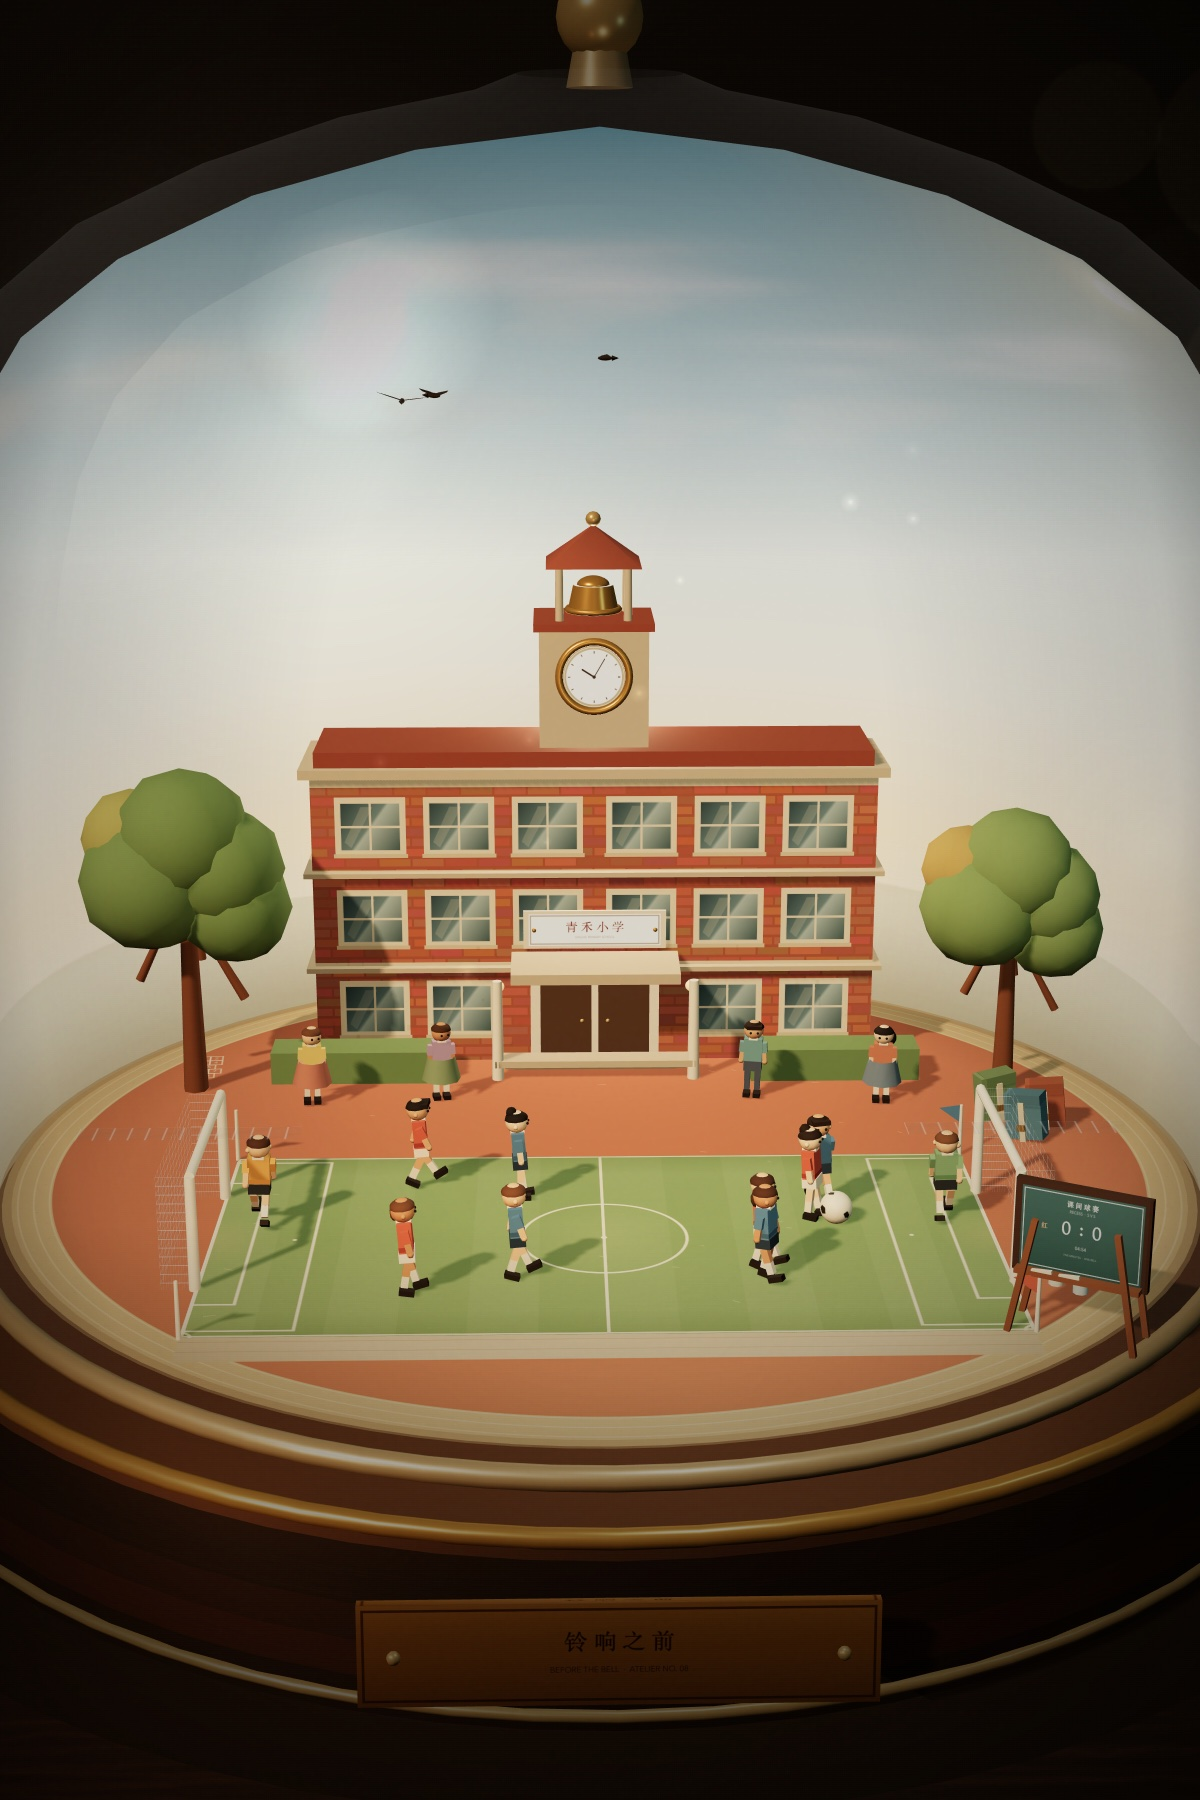
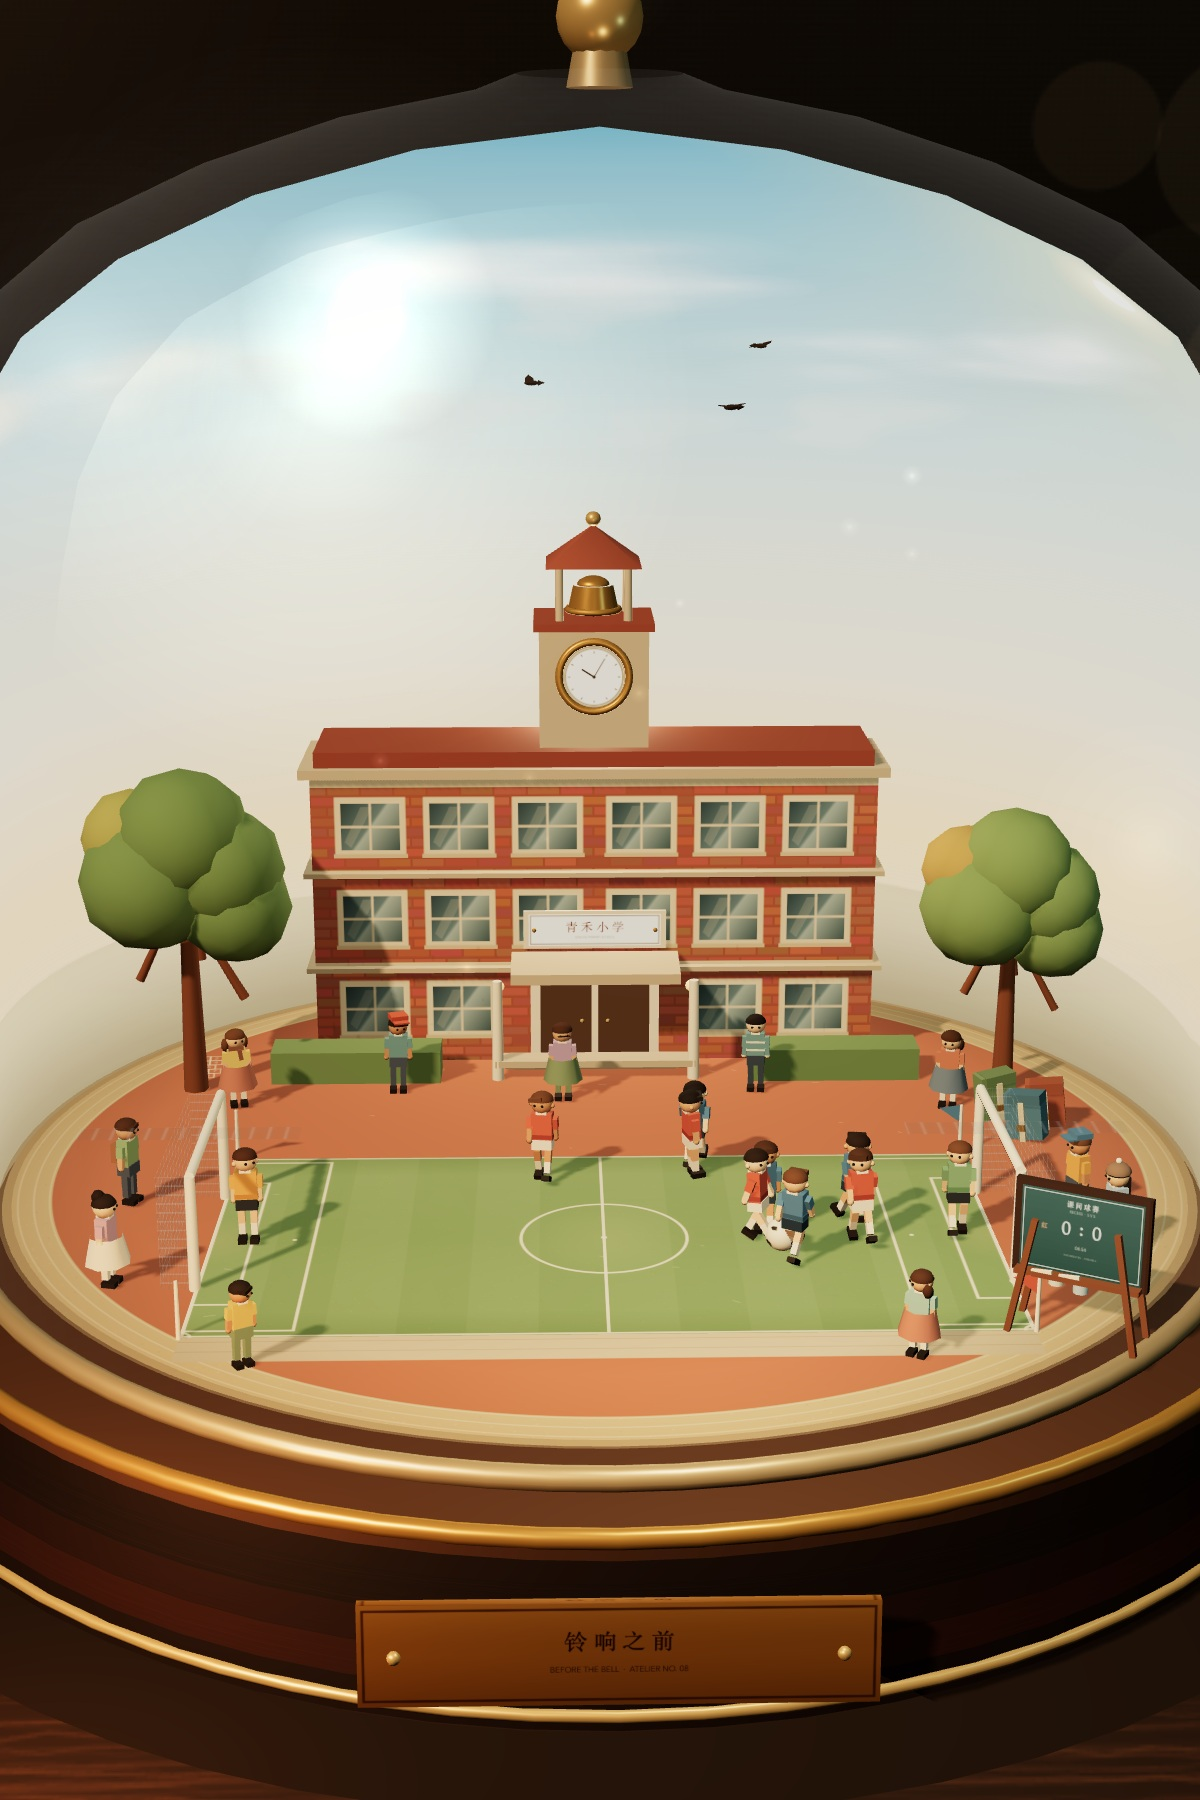
feat: 扩充课间球场的场边同学并修正发型
观众从 4 人增至 11 人，分散在教学楼前、两侧球门后和场地前角，新增帽子、围巾、条纹衫、书包、长裤、丸子头、双马尾等服饰发型，点击台词、进球欢呼、打铃退场和复位都保留。踢球的十名球员统一为男生短发；发帽原来低于头顶，补高后不再露出发顶；黑板点击代理改成贴合板面的盒子，避免挡住旁边观众。海报同步更新。

diff --git a/recess-football/index.html b/recess-football/index.html
@@ -1941,30 +1941,23 @@ function makeKid(team, index, role, baseX, baseZ){
   headPivot.add(earR);
 
   const cap = new THREE.Mesh(HAIR_CAP_GEO, hair);
-  cap.scale.set(.032, .021, .032);
-  cap.position.y = .018;
+  cap.scale.set(.033, .026, .033);
+  cap.position.y = .017;
   cap.castShadow = true;
   headPivot.add(cap);
-  const style = index % 4;
+  // the ten players are all boys: short crops, fringes and side sweeps only
+  const style = index % 3;
   if (style === 1){
     const fringe = new THREE.Mesh(BOX, hair);
     fringe.scale.set(.048, .012, .028);
     fringe.position.set(0, .025, .019);
     headPivot.add(fringe);
   } else if (style === 2){
-    const tail = new THREE.Mesh(SMALL_GEO, hair);
-    tail.scale.set(.014, .021, .016);
-    tail.position.set(.025, -.006, -.019);
-    headPivot.add(tail);
-    const tie = new THREE.Mesh(SMALL_GEO, M.red);
-    tie.scale.setScalar(.007);
-    tie.position.set(.025, .01, -.021);
-    headPivot.add(tie);
-  } else if (style === 3){
-    const bun = new THREE.Mesh(SMALL_GEO, hair);
-    bun.scale.setScalar(.016);
-    bun.position.set(0, .036, -.012);
-    headPivot.add(bun);
+    const sweep = new THREE.Mesh(BOX, hair);
+    sweep.scale.set(.038, .010, .026);
+    sweep.position.set(-.009, .024, .021);
+    sweep.rotation.z = .14;
+    headPivot.add(sweep);
   }
 
   for (const ex of [-.011, .011]){
@@ -2032,19 +2025,21 @@ function makeSpectator(def){
   const hair = kidMat(HAIR_TONES[def.hair % HAIR_TONES.length]);
   const top = kidMat(def.top);
   const lower = kidMat(def.lower);
-  const shoe = M.dark;
+  const shoe = def.shoe != null ? kidMat(def.shoe) : M.dark;
+  const thighMat = def.girl && !def.long ? skin : lower;
+  const shinMat = def.long ? lower : def.girl ? M.cream : lower;
 
   const legs = [];
   for (const side of [-1, 1]){
     const pivot = new THREE.Group();
     pivot.position.set(side * .016, .09, 0);
     body.add(pivot);
-    const thigh = new THREE.Mesh(BOX, def.girl ? skin : lower);
+    const thigh = new THREE.Mesh(BOX, thighMat);
     thigh.scale.set(.018, .034, .019);
     thigh.position.y = -.017;
     thigh.castShadow = true;
     pivot.add(thigh);
-    const lowerLeg = new THREE.Mesh(BOX, def.girl ? M.cream : lower);
+    const lowerLeg = new THREE.Mesh(BOX, shinMat);
     lowerLeg.scale.set(.017, .032, .018);
     lowerLeg.position.y = -.049;
     lowerLeg.castShadow = true;
@@ -2076,22 +2071,62 @@ function makeSpectator(def){
   torso.castShadow = true;
   torso.receiveShadow = true;
   body.add(torso);
-  const collar = new THREE.Mesh(BOX, M.cream);
+  if (def.stripes != null){
+    for (const y of [.142, .168]){
+      const stripe = new THREE.Mesh(BOX, kidMat(def.stripes));
+      stripe.scale.set(.0605, .007, .0363);
+      stripe.position.y = y;
+      body.add(stripe);
+    }
+  }
+  if (def.jacket != null){
+    const jacketMat = kidMat(def.jacket);
+    const hem = new THREE.Mesh(BOX, jacketMat);
+    hem.scale.set(.061, .013, .037);
+    hem.position.y = .124;
+    body.add(hem);
+    const zip = new THREE.Mesh(BOX, kidMat(def.zip || 0xeadfc8));
+    zip.scale.set(.006, .068, .005);
+    zip.position.set(0, .16, .0185);
+    body.add(zip);
+  }
+  const collar = new THREE.Mesh(BOX, def.collar != null ? kidMat(def.collar) : M.cream);
   collar.scale.set(.028, .009, .038);
   collar.position.y = .198;
   body.add(collar);
+  if (def.scarf != null){
+    const scarfMat = kidMat(def.scarf);
+    const wrap = new THREE.Mesh(BOX, scarfMat);
+    wrap.scale.set(.047, .013, .041);
+    wrap.position.y = .198;
+    body.add(wrap);
+    const end = new THREE.Mesh(BOX, scarfMat);
+    end.scale.set(.013, .034, .012);
+    end.position.set(.012, .178, .021);
+    end.rotation.z = .16;
+    body.add(end);
+  }
+  if (def.backpack != null){
+    const pack = new THREE.Mesh(BOX, kidMat(def.backpack));
+    pack.scale.set(.044, .055, .019);
+    pack.position.set(0, .152, -.032);
+    pack.castShadow = true;
+    body.add(pack);
+  }
 
+  const sleeveMat = def.jacket != null ? kidMat(def.jacket) : top;
+  const forearmMat = def.jacket != null || def.longSleeve ? sleeveMat : skin;
   const arms = [];
   for (const side of [-1, 1]){
     const pivot = new THREE.Group();
     pivot.position.set(side * .033, .182, 0);
     body.add(pivot);
-    const sleeve = new THREE.Mesh(BOX, top);
+    const sleeve = new THREE.Mesh(BOX, sleeveMat);
     sleeve.scale.set(.019, .032, .021);
     sleeve.position.y = -.016;
     sleeve.castShadow = true;
     pivot.add(sleeve);
-    const forearm = new THREE.Mesh(BOX, skin);
+    const forearm = new THREE.Mesh(BOX, forearmMat);
     forearm.scale.set(.014, .034, .016);
     forearm.position.y = -.044;
     forearm.castShadow = true;
@@ -2118,24 +2153,85 @@ function makeSpectator(def){
   head.castShadow = true;
   headPivot.add(head);
   const cap = new THREE.Mesh(HAIR_CAP_GEO, hair);
-  cap.scale.set(.032, .021, .032);
-  cap.position.y = .018;
+  cap.scale.set(.033, .026, .033);
+  cap.position.y = .017;
   cap.castShadow = true;
   headPivot.add(cap);
   if (def.girl){
-    const tail = new THREE.Mesh(SMALL_GEO, hair);
-    tail.scale.set(.014, .022, .016);
-    tail.position.set(.025, -.005, -.019);
-    headPivot.add(tail);
-    const tie = new THREE.Mesh(SMALL_GEO, M.red);
-    tie.scale.setScalar(.007);
-    tie.position.set(.025, .011, -.021);
-    headPivot.add(tie);
+    const hs = def.hairStyle || 1;
+    if (hs === 2){
+      const back = new THREE.Mesh(BOX, hair);
+      back.scale.set(.034, .062, .018);
+      back.position.set(0, -.022, -.021);
+      back.castShadow = true;
+      headPivot.add(back);
+    } else if (hs === 3){
+      for (const side of [-1, 1]){
+        const tail = new THREE.Mesh(SMALL_GEO, hair);
+        tail.scale.set(.014, .022, .016);
+        tail.position.set(side * .031, -.006, -.008);
+        headPivot.add(tail);
+        const tie = new THREE.Mesh(SMALL_GEO, def.tie != null ? kidMat(def.tie) : M.red);
+        tie.scale.setScalar(.007);
+        tie.position.set(side * .031, .009, -.01);
+        headPivot.add(tie);
+      }
+    } else if (hs === 4){
+      const bun = new THREE.Mesh(SMALL_GEO, hair);
+      bun.scale.setScalar(.018);
+      bun.position.set(0, .038, -.014);
+      headPivot.add(bun);
+    } else {
+      const tail = new THREE.Mesh(SMALL_GEO, hair);
+      tail.scale.set(.014, .022, .016);
+      tail.position.set(.025, -.005, -.019);
+      headPivot.add(tail);
+      const tie = new THREE.Mesh(SMALL_GEO, def.tie != null ? kidMat(def.tie) : M.red);
+      tie.scale.setScalar(.007);
+      tie.position.set(.025, .011, -.021);
+      headPivot.add(tie);
+    }
   } else if (def.style === 1){
     const fringe = new THREE.Mesh(BOX, hair);
     fringe.scale.set(.048, .012, .028);
     fringe.position.set(0, .025, .019);
     headPivot.add(fringe);
+  } else if (def.style === 2){
+    const sweep = new THREE.Mesh(BOX, hair);
+    sweep.scale.set(.038, .010, .026);
+    sweep.position.set(-.009, .024, .021);
+    sweep.rotation.z = .14;
+    headPivot.add(sweep);
+  }
+  if (def.hat === 'cap'){
+    const hatMat = kidMat(def.hatColor != null ? def.hatColor : 0xc0563f);
+    const crown = new THREE.Mesh(BOX, hatMat);
+    crown.scale.set(.054, .016, .050);
+    crown.position.y = .041;
+    crown.castShadow = true;
+    headPivot.add(crown);
+    const brim = new THREE.Mesh(BOX, hatMat);
+    brim.scale.set(.048, .005, .029);
+    brim.position.set(0, .033, .034);
+    brim.castShadow = true;
+    headPivot.add(brim);
+  } else if (def.hat === 'beanie'){
+    const hatMat = kidMat(def.hatColor != null ? def.hatColor : 0x8b6f5a);
+    const crown = new THREE.Mesh(HAIR_CAP_GEO, hatMat);
+    crown.scale.set(.035, .028, .035);
+    crown.position.y = .021;
+    crown.castShadow = true;
+    headPivot.add(crown);
+    const pom = new THREE.Mesh(SMALL_GEO, kidMat(def.pom != null ? def.pom : 0xefe3cd));
+    pom.scale.setScalar(.009);
+    pom.position.y = .053;
+    headPivot.add(pom);
+  }
+  if (def.glasses){
+    const frame = new THREE.Mesh(BOX, M.dark);
+    frame.scale.set(.039, .0035, .004);
+    frame.position.set(0, .008, .032);
+    headPivot.add(frame);
   }
   for (const ex of [-.011, .011]){
     const eye = new THREE.Mesh(SMALL_GEO, M.dark);
@@ -2151,6 +2247,8 @@ function makeSpectator(def){
   const s = {
     root, body, legs, arms, headPivot, def,
     phase: rand(0, TAU), reaction: 0, cheer: 0, baseY: 0,
+    energy: def.energy || rand(.82, 1.18),
+    speed: def.speed || rand(.55, .72),
     baseX: def.x, baseZ: def.z, baseRy: def.ry || 0, walkPhase: rand(0, TAU)
   };
   proxy.userData.spectator = s;
@@ -2158,10 +2256,21 @@ function makeSpectator(def){
 }
 
 const spectators = [
-  makeSpectator({ x: -1.02, z: -.5, ry: .12, skin: 0, hair: 3, top: 0xe7c46e, lower: 0xb87563, girl: true, say: '扎马尾的女同学把辫子甩到肩后，朝你挥了挥手。' }),
-  makeSpectator({ x: -.56, z: -.54, ry: .2, skin: 2, hair: 1, top: 0xb59ab7, lower: 0x7e8f6a, girl: true, style: 2, say: '她捂着嘴笑，悄悄指了指红队的前锋。' }),
-  makeSpectator({ x: .56, z: -.54, ry: -.16, skin: 1, hair: 0, top: 0x6f9a9b, lower: 0x4e5868, girl: false, style: 1, say: '男同学举着水壶喊了一声“加油”，又赶紧咽回去。' }),
-  makeSpectator({ x: 1.02, z: -.48, ry: -.1, skin: 3, hair: 2, top: 0xc4785e, lower: 0x6c7d8b, girl: true, say: '女同学踮起脚，脑袋跟着足球来回转。' })
+  // along the building hedge, deliberately uneven
+  makeSpectator({ x: -1.28, z: -.48, ry: .2, skin: 0, hair: 3, top: 0xe7c46e, lower: 0xb87563, girl: true, hairStyle: 3, scarf: 0x8a5a4a, say: '扎双马尾的女同学把辫子甩到肩后，朝你挥了挥手。' }),
+  makeSpectator({ x: -.72, z: -.62, ry: .05, skin: 2, hair: 0, top: 0x6f9a9b, lower: 0x4e5868, girl: false, style: 1, hat: 'cap', hatColor: 0xc0563f, say: '戴红帽子的男同学把帽檐一转，冲场上吹了声口哨。' }),
+  makeSpectator({ x: -.12, z: -.52, ry: -.04, skin: 1, hair: 1, top: 0xb59ab7, lower: 0x7e8f6a, girl: true, hairStyle: 2, long: true, glasses: true, say: '她扶着眼镜，认真数着红队传了几脚球。' }),
+  makeSpectator({ x: .58, z: -.6, ry: -.12, skin: 3, hair: 2, top: 0x6f9a9b, lower: 0x3f4c5c, girl: false, stripes: 0xeadfc8, longSleeve: true, say: '穿条纹衫的男同学举着水壶喊了一声“加油”，又赶紧咽回去。' }),
+  makeSpectator({ x: 1.25, z: -.42, ry: -.24, skin: 0, hair: 1, top: 0xc4785e, lower: 0x6c7d8b, girl: true, hairStyle: 1, say: '女同学踮起脚，脑袋跟着足球来回转。' }),
+  // behind the left goal
+  makeSpectator({ x: -1.52, z: .38, ry: 1.2, skin: 1, hair: 1, top: 0x8fae7e, lower: 0x4e5868, girl: false, style: 2, backpack: 0x9c6b4c, long: true, say: '背书包的男同学把书包往地上一放，说这场肯定有进球。' }),
+  makeSpectator({ x: -1.48, z: .98, ry: 1.32, skin: 3, hair: 0, top: 0xcfa6b8, lower: 0xefe3cd, girl: true, hairStyle: 4, tie: 0x547f9e, say: '扎丸子头的女同学捂着嘴笑，悄悄指了指红队的前锋。' }),
+  // behind the right goal
+  makeSpectator({ x: 1.5, z: .55, ry: -1.18, skin: 2, hair: 3, top: 0xe0a04f, lower: 0x4e5868, girl: false, style: 1, hat: 'cap', hatColor: 0x547f9e, say: '戴蓝帽子的男同学蹲下又站起，比场上的人还着急。' }),
+  makeSpectator({ x: 1.56, z: .82, ry: -1.3, skin: 0, hair: 2, top: 0xa8c4d4, lower: 0x6c7d8b, girl: true, hairStyle: 2, hat: 'beanie', hatColor: 0x8b6f5a, pom: 0xefe3cd, say: '戴毛线帽的女同学把手缩进袖子，只露出眼睛看球。' }),
+  // the two smallest kids squeeze in at the front corners
+  makeSpectator({ x: -1.02, z: 1.5, ry: .55, skin: 2, hair: 0, top: 0xd9b45c, lower: 0x7e8f6a, girl: false, style: 2, scale: 1.0, say: '个子最小的男同学挤到最前面，仰着头追着球看。' }),
+  makeSpectator({ x: .86, z: 1.48, ry: -.5, skin: 1, hair: 1, top: 0x9bbfae, lower: 0xb87563, girl: true, hairStyle: 3, tie: 0xe7c46e, scale: 1.02, say: '双马尾的女同学一边跳一边数着比分。' })
 ];
 
 const clickables = [];
@@ -2175,7 +2284,7 @@ for (const p of players){
 for (const s of spectators){
   clickables.push(s.root.children.find(c => c.userData.spectator));
 }
-const boardProxy = new THREE.Mesh(new THREE.SphereGeometry(.24, 6, 5), INVISIBLE_MAT);
+const boardProxy = new THREE.Mesh(new THREE.BoxGeometry(.42, .31, .05), INVISIBLE_MAT);
 boardProxy.position.set(0, .3, .02);
 boardProxy.userData.board = true;
 board.add(boardProxy);
@@ -3810,11 +3919,11 @@ function updateSpectators(dt, time){
         sp.root.visible = false;
         continue;
       }
-      const step = Math.min(d, .62 * dt);
+      const step = Math.min(d, sp.speed * dt);
       sp.root.position.x += dx / d * step;
       sp.root.position.z += dz / d * step;
       sp.root.rotation.y = Math.atan2(dx, dz);
-      sp.walkPhase += dt * 9;
+      sp.walkPhase += dt * (7.6 + sp.energy * 1.8);
       sp.legs[0].rotation.x = Math.sin(sp.walkPhase) * .5;
       sp.legs[1].rotation.x = -Math.sin(sp.walkPhase) * .5;
       sp.body.position.y = Math.abs(Math.sin(sp.walkPhase)) * .006;
@@ -3824,14 +3933,14 @@ function updateSpectators(dt, time){
     sp.reaction = Math.max(0, sp.reaction - dt);
     sp.cheer = Math.max(0, sp.cheer - dt);
     const excited = sp.cheer > 0 || sp.reaction > 0;
-    const jump = excited ? Math.max(0, Math.sin(time * 10 + sp.phase)) * .032 : 0;
+    const jump = excited ? Math.max(0, Math.sin(time * (8.5 + sp.energy * 1.5) + sp.phase)) * .032 * sp.energy : 0;
     sp.body.position.y = jump + Math.sin(time * 1.1 + sp.phase) * .003;
-    sp.body.rotation.z = excited ? Math.sin(time * 8 + sp.phase) * .045 : Math.sin(time * .8 + sp.phase) * .018;
-    const wave = excited ? 2.25 + Math.sin(time * 12 + sp.phase) * .18 : .07;
+    sp.body.rotation.z = excited ? Math.sin(time * 8 + sp.phase) * .045 * sp.energy : Math.sin(time * .8 + sp.phase) * .018 * sp.energy;
+    const wave = excited ? 2.25 + Math.sin(time * (11 + sp.energy * 2) + sp.phase) * .18 : .07;
     sp.arms[0].rotation.z = -wave;
     sp.arms[1].rotation.z = wave;
-    sp.arms[0].rotation.x = excited ? Math.sin(time * 11 + sp.phase) * .16 : 0;
-    sp.arms[1].rotation.x = excited ? -Math.sin(time * 11 + sp.phase) * .16 : 0;
+    sp.arms[0].rotation.x = excited ? Math.sin(time * 11 + sp.phase) * .16 * sp.energy : 0;
+    sp.arms[1].rotation.x = excited ? -Math.sin(time * 11 + sp.phase) * .16 * sp.energy : 0;
     sp.legs[0].rotation.x = 0;
     sp.legs[1].rotation.x = 0;
     const look = Math.atan2(ball.pos.x - sp.root.position.x, ball.pos.z - sp.root.position.z) - sp.root.rotation.y;

diff --git a/index.html b/index.html
@@ -13,7 +13,7 @@
 <link rel="preload" as="image" href="classroom-80s/poster.jpg" />
 <link rel="preload" as="image" href="tide-holiday/poster.jpg" />
 <link rel="preload" as="image" href="autumn-forest/poster.jpg" />
-<link rel="preload" as="image" href="recess-football/poster.jpg" />
+<link rel="preload" as="image" href="recess-football/poster.jpg?v=20261105c" />
 <style>
   @property --accent{
     syntax: "<color>";
@@ -1010,7 +1010,7 @@
        data-no="08" data-title="铃响之前" data-en="Before the Bell"
        data-note="五分钟的课间球赛，铃声一响就跑回教学楼。"
        data-accent="#b8cf92" aria-label="进入《铃响之前》">
-      <span class="card-media"><img src="recess-football/poster.jpg" draggable="false" alt="玻璃钟罩里的青禾小学操场，红蓝两队孩子进行课间足球赛，教学楼与铃声" width="1200" height="1800" /></span>
+      <span class="card-media"><img src="recess-football/poster.jpg?v=20261105c" draggable="false" alt="玻璃钟罩里的青禾小学操场，红蓝两队孩子进行课间足球赛，教学楼与铃声" width="1200" height="1800" /></span>
       <span class="card-frame" aria-hidden="true"></span>
       <span class="card-top">
         <span class="card-meta"><span class="card-no">No. 08</span><span class="card-phase">校园 · 课间 10:05</span></span>
